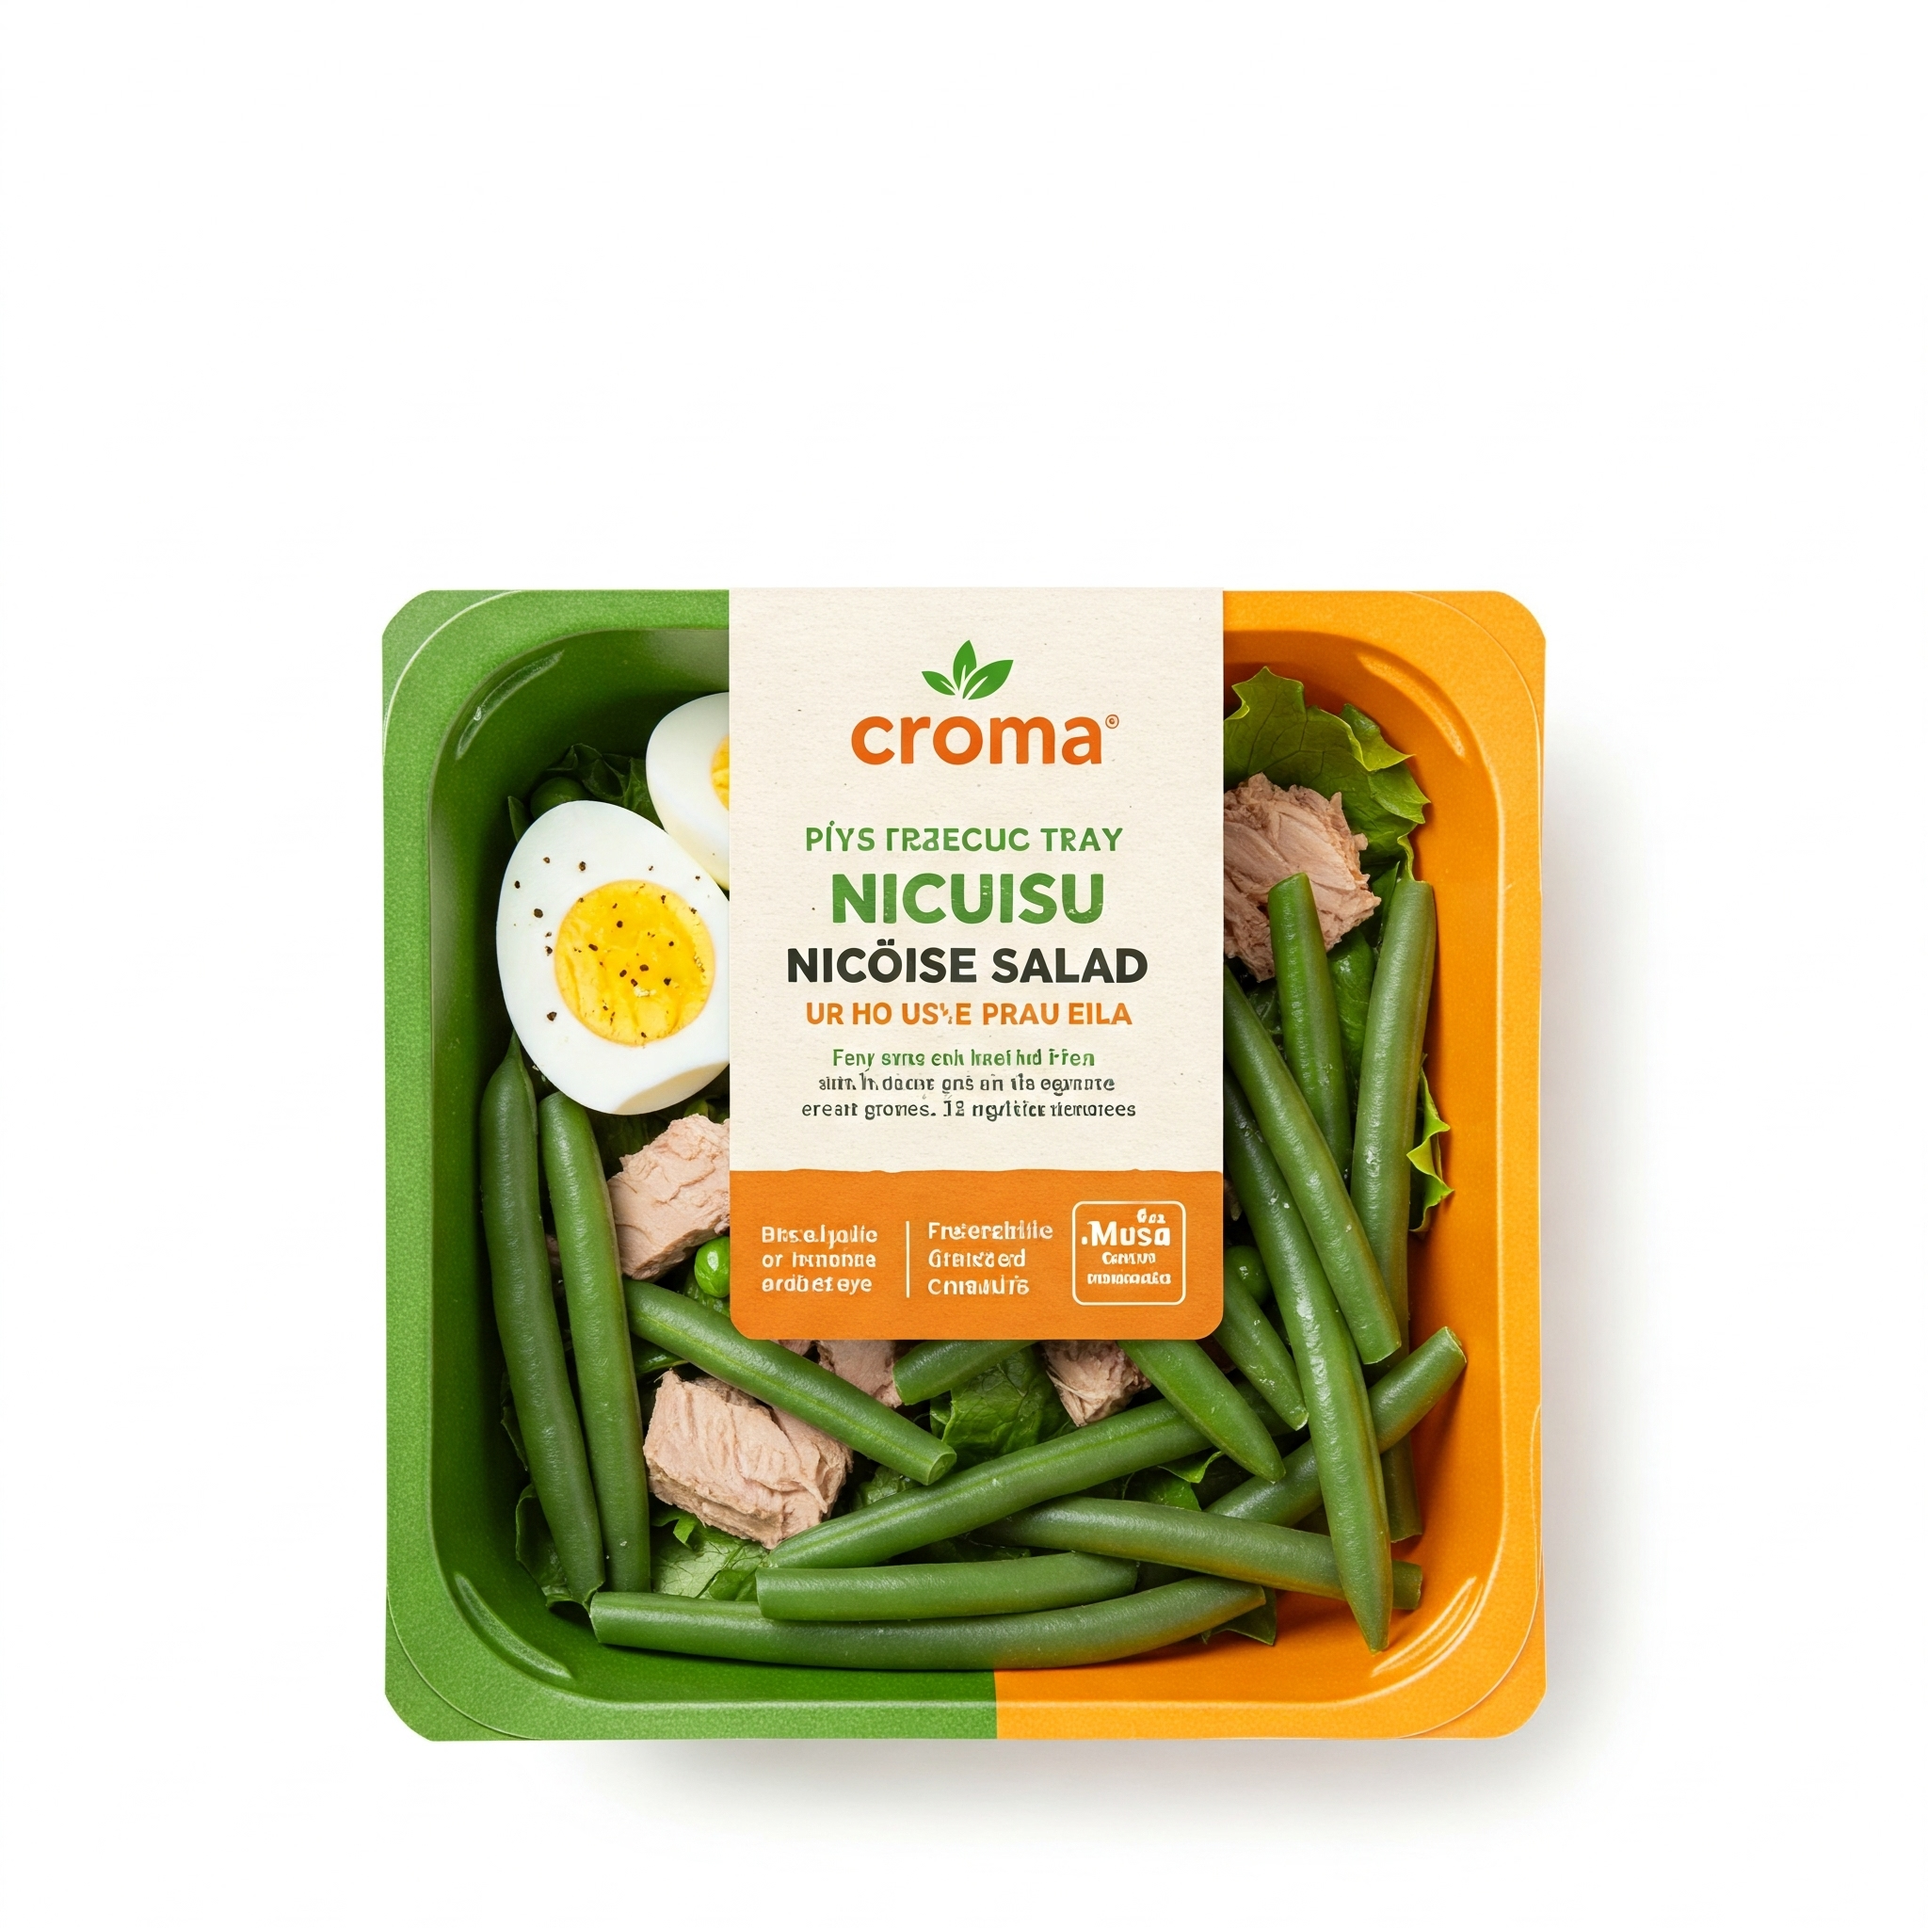
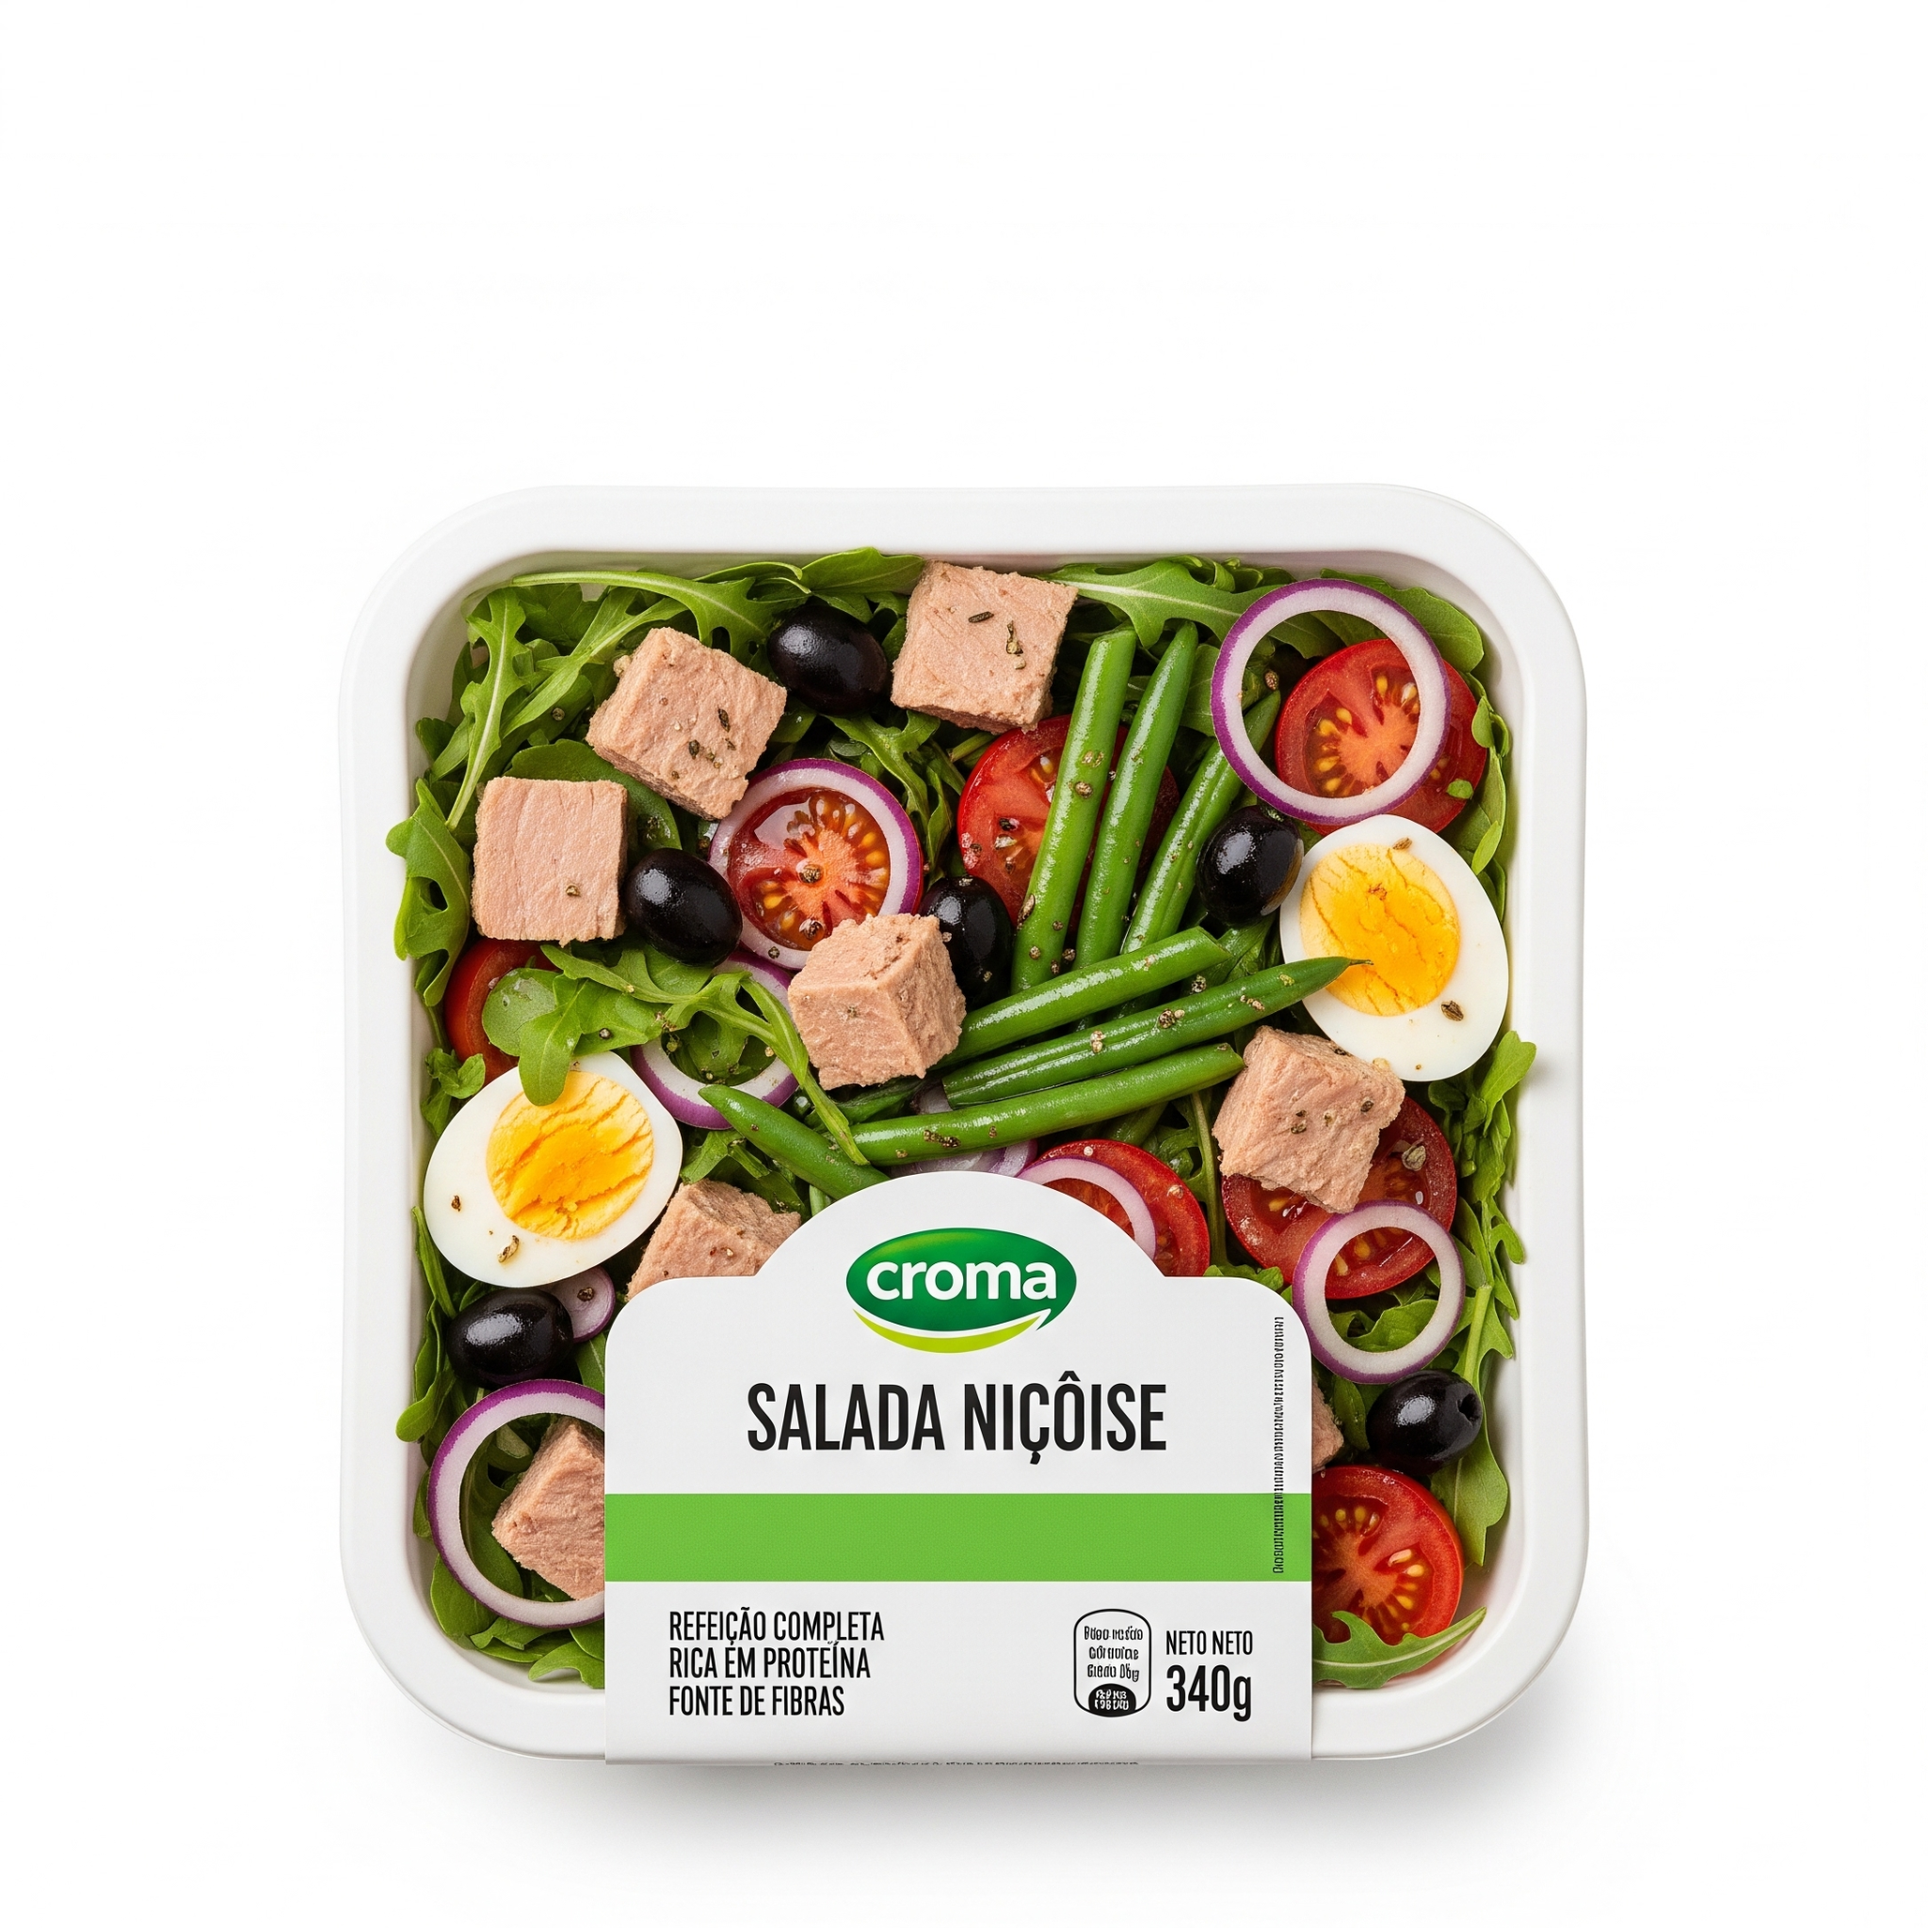
cenas

diff --git a/Products.html b/Products.html
@@ -342,6 +342,26 @@
                 </div>
 
                 <div class="product-card">
+                    <img class="product-background" src="img/Snacks/Croma_Snack_bread_1.png" alt="Produto">
+                    <div class="product-content">
+                        <h1 class="product-title">Pão de Sementes</h1> 
+                        <h2 class="product-capacity">500ml</h2>
+                        <div class="product-price">2,99€</div>
+                        <div class="product-add-basket"> <button type="button"><i class="bi bi-cart-plus-fill"></i></button></div>
+                    </div>
+                </div>
+
+                <div class="product-card">
+                    <img class="product-background" src="img/Snacks/Croma_Snack_bread_2.png" alt="Produto">
+                    <div class="product-content">
+                        <h1 class="product-title">Pão Integral</h1> 
+                        <h2 class="product-capacity">500ml</h2>
+                        <div class="product-price">2,99€</div>
+                        <div class="product-add-basket"> <button type="button"><i class="bi bi-cart-plus-fill"></i></button></div>
+                    </div>
+                </div>
+
+                <div class="product-card">
                     <img class="product-background" src="img/Supplement/Croma_Supplement_Protein_1.png" alt="Produto">
                     <div class="product-content">
                         <h1 class="product-title">Proteina Vegetal 1000g</h1> 
@@ -582,7 +602,7 @@
                 </div>
 
                 <div class="product-card">
-                    <img class="product-background" src="img/Gym/Croma_gym_kettlebell_1.png" alt="Produto">
+                    <img class="product-background" src="img/Gym/Croma_Gym_kettlebell_1.png" alt="Produto">
                     <div class="product-content">
                         <h1 class="product-title">Kettlebell</h1> 
                         <h2 class="product-capacity">5kg</h2>
@@ -592,7 +612,7 @@
                 </div>
 
                 <div class="product-card">
-                    <img class="product-background" src="img/Gym/Croma_gym_kettlebell_2.png" alt="Produto">
+                    <img class="product-background" src="img/Gym/Croma_Gym_kettlebell_2.png" alt="Produto">
                     <div class="product-content">
                         <h1 class="product-title">Kettlebell</h1> 
                         <h2 class="product-capacity">10kg</h2>
@@ -602,7 +622,7 @@
                 </div>
 
                 <div class="product-card">
-                    <img class="product-background" src="img/Gym/Croma_gym_kettlebell_3.png" alt="Produto">
+                    <img class="product-background" src="img/Gym/Croma_Gym_kettlebell_3.png" alt="Produto">
                     <div class="product-content">
                         <h1 class="product-title">Kettlebell</h1> 
                         <h2 class="product-capacity">15kg</h2>
@@ -637,7 +657,8 @@
                 <div class="product-card">
                     <img class="product-background" src="img/Meals/Croma_meal_1.png" alt="Produto">
                     <div class="product-content">
-                        <h1 class="product-title">Peixe Pescada com Quinoa e Feijão-Verde</h1> 
+                        <h1 class="product-title">Salada Nicõise</h1>
+                        <h2 class="product-capacity">300g</h2>
                         <div class="product-price">18,20€</div>
                         <div class="product-add-basket"> <button type="button"><i class="bi bi-cart-plus-fill"></i></button></div>
                     </div>
@@ -647,7 +668,78 @@
                     <img class="product-background" src="img/Meals/Croma_meal_2.png" alt="Produto">
                     <div class="product-content">
                         <h1 class="product-title">Frango com Abóbora e Couve</h1> 
-                        <div class="product-price">14,25€</div>
+                        <h2 class="product-capacity">350g</h2>
+                        <div class="product-price">9,25€</div>
+                        <div class="product-add-basket"> <button type="button"><i class="bi bi-cart-plus-fill"></i></button></div>
+                    </div>
+                </div>
+
+                <div class="product-card">
+                    <img class="product-background" src="img/Meals/Croma_meal_3.png" alt="Produto">
+                    <div class="product-content">
+                        <h1 class="product-title">Frango com Penne al Pesto</h1> 
+                        <h2 class="product-capacity">350g</h2>
+                        <div class="product-price">12,50€</div>
+                        <div class="product-add-basket"> <button type="button"><i class="bi bi-cart-plus-fill"></i></button></div>
+                    </div>
+                </div>
+
+                <div class="product-card">
+                    <img class="product-background" src="img/Meals/Croma_meal_4.png" alt="Produto">
+                    <div class="product-content">
+                        <h1 class="product-title">Frango Com Batata-Doce</h1> 
+                        <h2 class="product-capacity">380g</h2>
+                        <div class="product-price">8,99€</div>
+                        <div class="product-add-basket"> <button type="button"><i class="bi bi-cart-plus-fill"></i></button></div>
+                    </div>
+                </div>
+
+                <div class="product-card">
+                    <img class="product-background" src="img/Meals/Croma_meal_5.png" alt="Produto">
+                    <div class="product-content">
+                        <h1 class="product-title">Frango com Mac&Cheese</h1> 
+                        <h2 class="product-capacity">350g</h2>
+                        <div class="product-price">11,35€</div>
+                        <div class="product-add-basket"> <button type="button"><i class="bi bi-cart-plus-fill"></i></button></div>
+                    </div>
+                </div>
+
+                <div class="product-card">
+                    <img class="product-background" src="img/Meals/Croma_meal_7.png" alt="Produto">
+                    <div class="product-content">
+                        <h1 class="product-title">Salada de Delícias do Mar</h1> 
+                        <h2 class="product-capacity">280g</h2>
+                        <div class="product-price">9,25€</div>
+                        <div class="product-add-basket"> <button type="button"><i class="bi bi-cart-plus-fill"></i></button></div>
+                    </div>
+                </div>
+
+                <div class="product-card">
+                    <img class="product-background" src="img/Meals/Croma_meal_8.png" alt="Produto">
+                    <div class="product-content">
+                        <h1 class="product-title">Salada de Macarrão com Aipo</h1> 
+                        <h2 class="product-capacity">300g</h2>
+                        <div class="product-price">6,99€</div>
+                        <div class="product-add-basket"> <button type="button"><i class="bi bi-cart-plus-fill"></i></button></div>
+                    </div>
+                </div>
+
+                <div class="product-card">
+                    <img class="product-background" src="img/Meals/Croma_meal_pizza_1.png" alt="Produto">
+                    <div class="product-content">
+                        <h1 class="product-title">Pizza Congelada</h1> 
+                        <h2 class="product-capacity">4 Queijos</h2>
+                        <div class="product-price">3,99€</div>
+                        <div class="product-add-basket"> <button type="button"><i class="bi bi-cart-plus-fill"></i></button></div>
+                    </div>
+                </div>
+
+                <div class="product-card">
+                    <img class="product-background" src="img/Meals/Croma_meal_pizza_2.png" alt="Produto">
+                    <div class="product-content">
+                        <h1 class="product-title">Pizza Congelada</h1> 
+                        <h2 class="product-capacity">Margarita</h2>
+                        <div class="product-price">3,99€</div>
                         <div class="product-add-basket"> <button type="button"><i class="bi bi-cart-plus-fill"></i></button></div>
                     </div>
                 </div>
